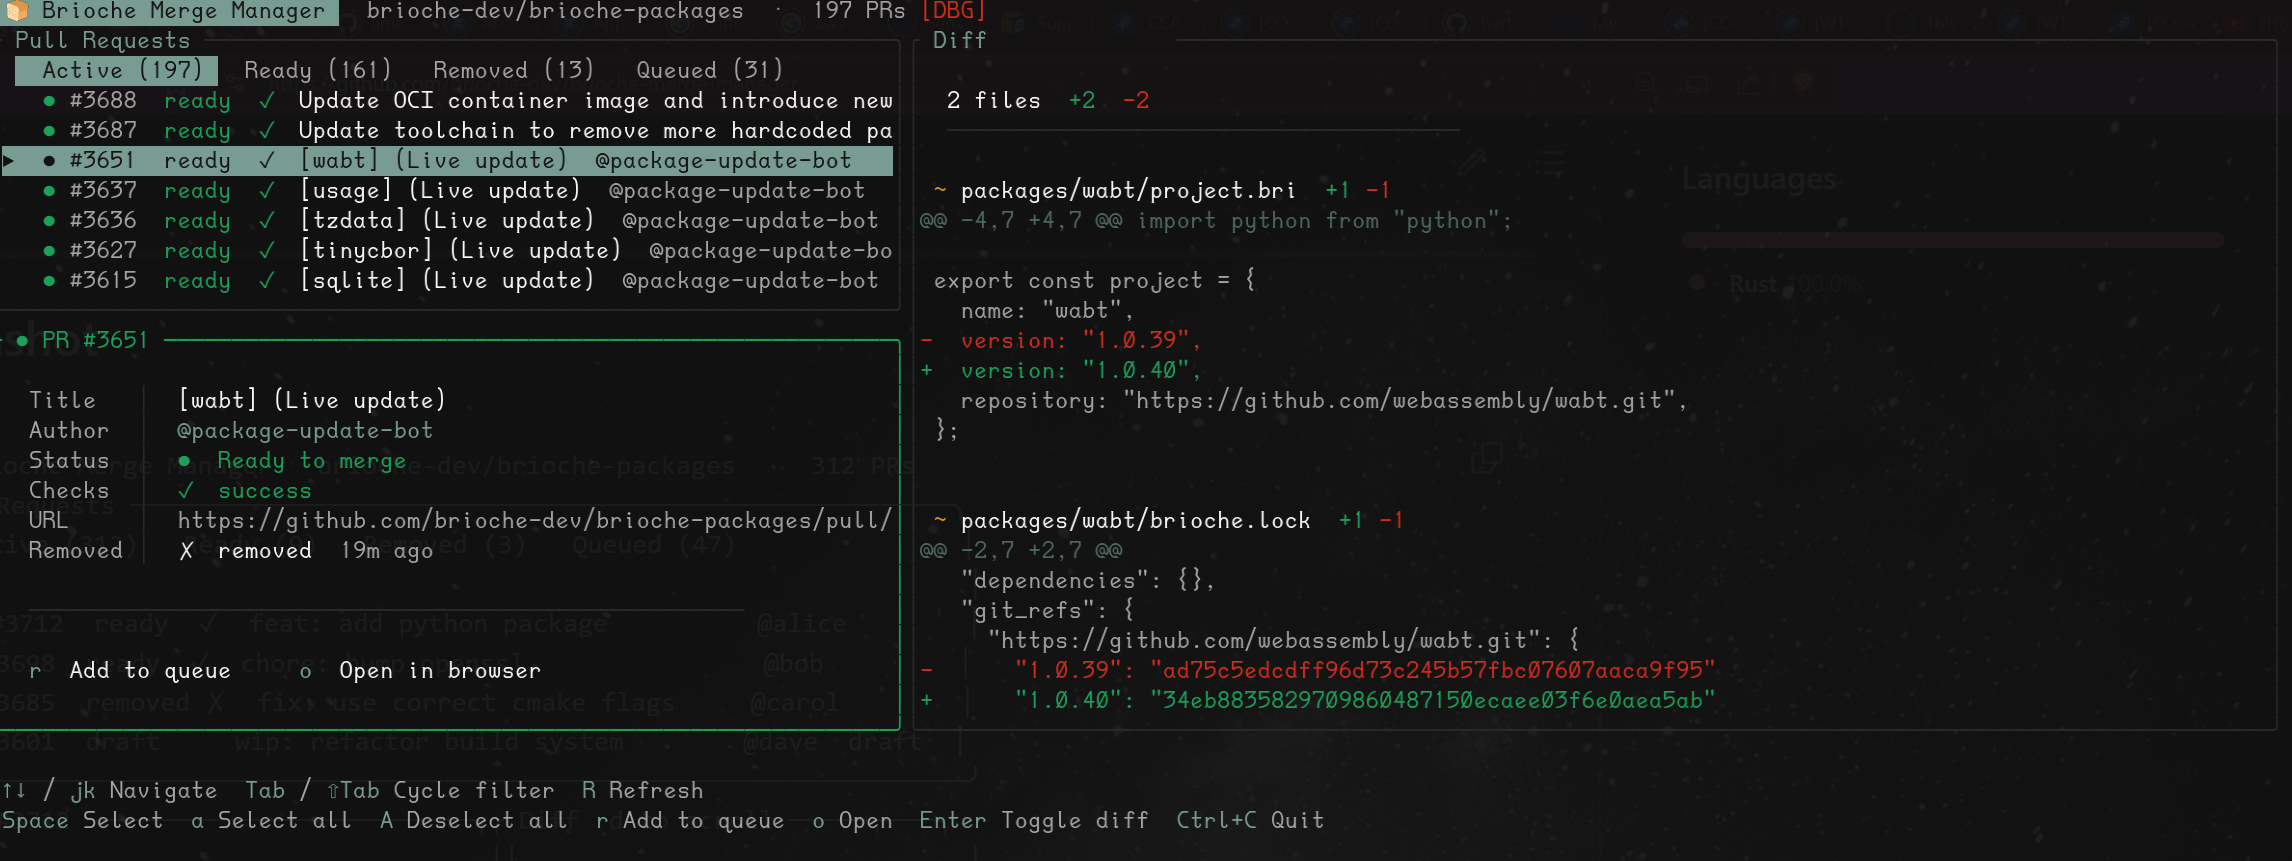
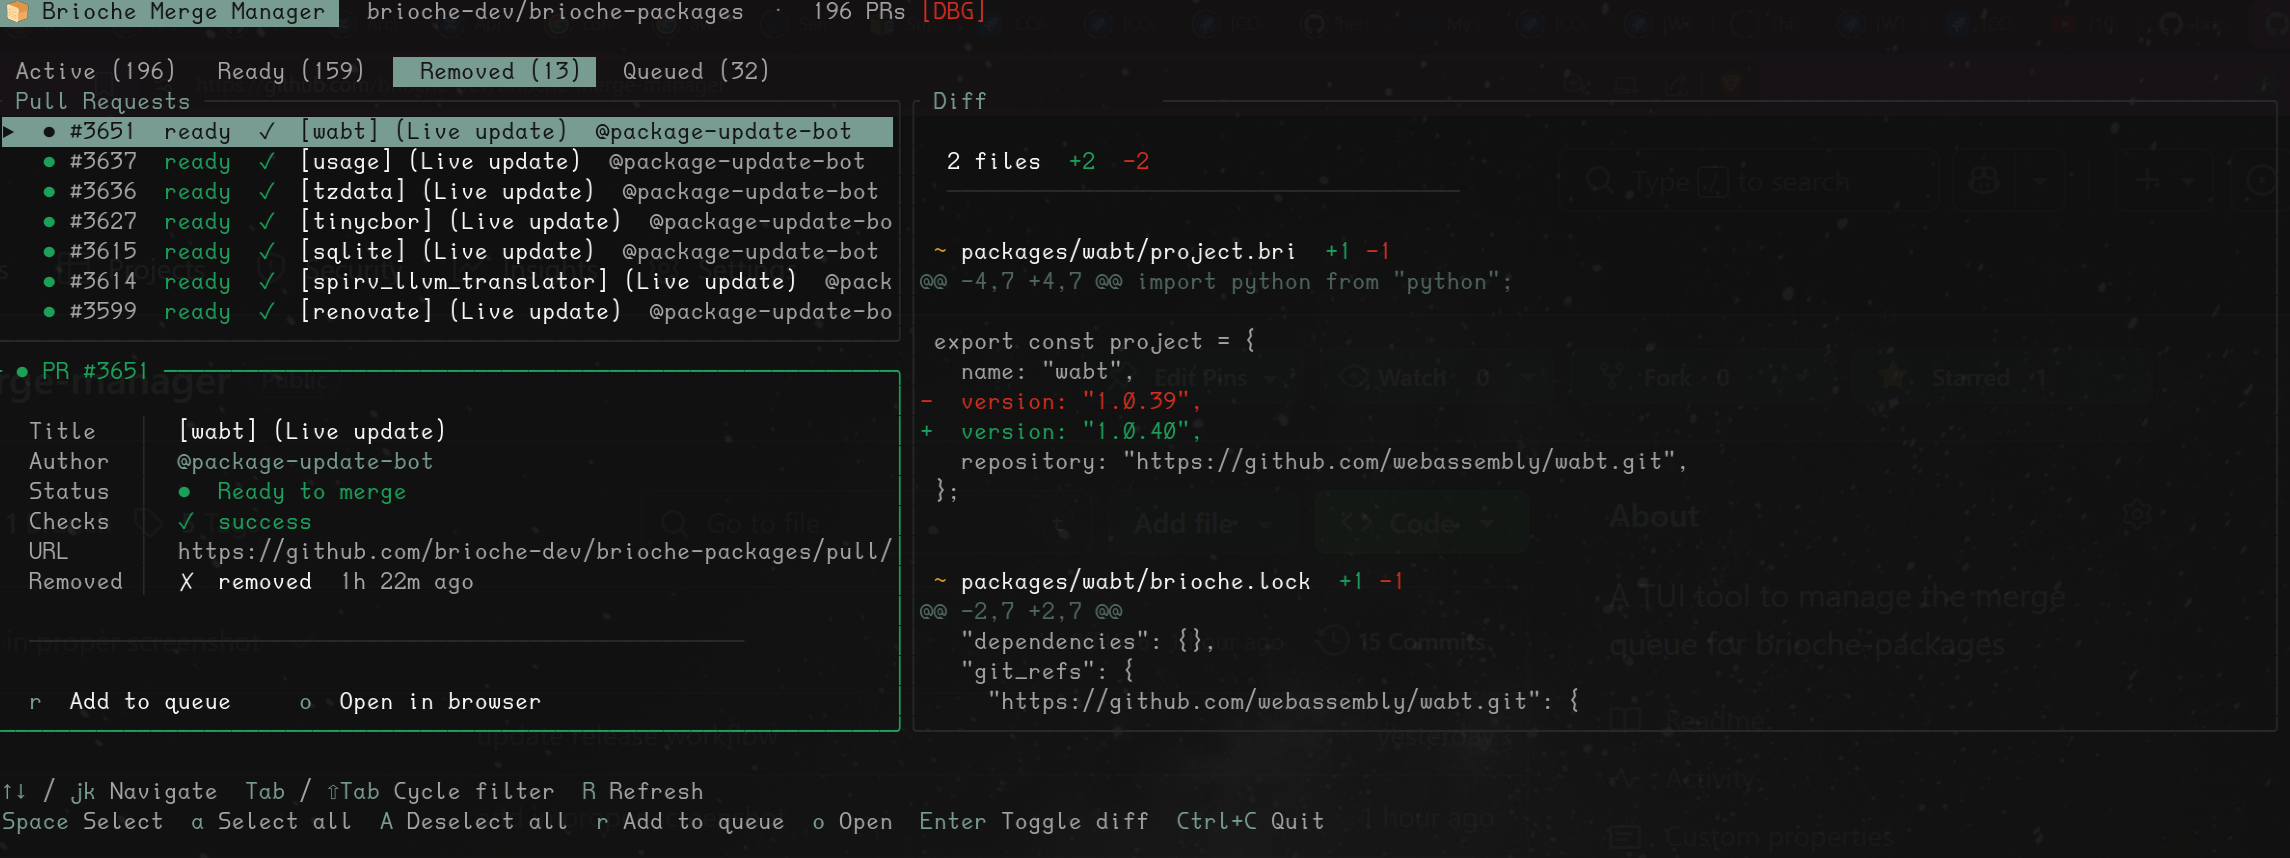
cleanup and add --diff

diff --git a/src/ui/pr_list.rs b/src/ui/pr_list.rs
@@ -1,5 +1,5 @@
 use ratatui::{
-    layout::{Constraint, Direction, Layout, Rect},
+    layout::Rect,
     style::{Color, Style, Stylize},
     text::{Line, Span},
     widgets::{Block, BorderType, Borders, Clear, Gauge, List, ListItem, Paragraph},
@@ -79,21 +79,16 @@ pub fn render_pr_list(f: &mut Frame, app: &mut App, area: Rect) {
     //   [rest]    scrollable PR list
     f.render_widget(block, area);
 
-    let inner = Layout::default()
-        .direction(Direction::Vertical)
-        .constraints([Constraint::Length(1), Constraint::Min(0)])
-        .split(Rect {
-            x: area.x + 1,
-            y: area.y + 1,
-            width: area.width.saturating_sub(2),
-            height: area.height.saturating_sub(2),
-        });
-
-    render_filter_tabs(f, app, inner[0]);
+    let list_rect = Rect {
+        x: area.x + 1,
+        y: area.y + 1,
+        width: area.width.saturating_sub(2),
+        height: area.height.saturating_sub(2),
+    };
 
     // Keep app in sync so PageUp/Down know how many rows are visible, and clicks can be hit-tested.
-    app.list_height = inner[1].height as usize;
-    app.pr_list_rect = inner[1];
+    app.list_height = list_rect.height as usize;
+    app.pr_list_rect = list_rect;
 
     let visible = app.visible_prs();
 
@@ -103,7 +98,7 @@ pub fn render_pr_list(f: &mut Frame, app: &mut App, area: Rect) {
             Span::raw("  "),
             format!("No {label} PRs").dim(),
         ]));
-        f.render_widget(msg, inner[1]);
+        f.render_widget(msg, list_rect);
         return;
     }
 
@@ -161,10 +156,10 @@ pub fn render_pr_list(f: &mut Frame, app: &mut App, area: Rect) {
         .highlight_style(Style::new().black().on_cyan().bold())
         .highlight_symbol("▶ ");
 
-    f.render_stateful_widget(list, inner[1], &mut app.list_state);
+    f.render_stateful_widget(list, list_rect, &mut app.list_state);
 }
 
-fn render_filter_tabs(f: &mut Frame, app: &mut App, area: Rect) {
+pub fn render_filter_tabs(f: &mut Frame, app: &mut App, area: Rect) {
     let mut spans = vec![Span::raw(" ")];
     let mut x = area.x + 1; // skip the leading space
 

diff --git a/src/ui/mod.rs b/src/ui/mod.rs
@@ -17,7 +17,7 @@ pub fn render(f: &mut Frame, app: &mut App) {
     let rows = Layout::default()
         .direction(Direction::Vertical)
         .constraints([
-            Constraint::Length(1), // header
+            Constraint::Length(2), // header + breathing room
             Constraint::Fill(1),   // main content
             Constraint::Length(3), // legend
         ])
@@ -26,12 +26,20 @@ pub fn render(f: &mut Frame, app: &mut App) {
     render_header(f, app, rows[0]);
     render_legend(f, app, rows[2]);
 
+    // Filter tabs always occupy a 1-line row above the panels so their
+    // position never shifts when the diff panel is toggled.
+    let main_rows = Layout::default()
+        .direction(Direction::Vertical)
+        .constraints([Constraint::Length(1), Constraint::Fill(1)])
+        .split(rows[1]);
+
+    pr_list::render_filter_tabs(f, app, main_rows[0]);
+
     if app.show_diff {
-        // Split the main content area horizontally: left = list+detail, right = diff.
         let cols = Layout::default()
             .direction(Direction::Horizontal)
             .constraints([Constraint::Fill(2), Constraint::Fill(3)])
-            .split(rows[1]);
+            .split(main_rows[1]);
 
         let left = Layout::default()
             .direction(Direction::Vertical)
@@ -48,7 +56,7 @@ pub fn render(f: &mut Frame, app: &mut App) {
         let left = Layout::default()
             .direction(Direction::Vertical)
             .constraints([Constraint::Fill(2), Constraint::Fill(3)])
-            .split(rows[1]);
+            .split(main_rows[1]);
 
         pr_list::render_pr_list(f, app, left[0]);
         pr_detail::render_pr_detail(f, app, left[1]);

diff --git a/src/app.rs b/src/app.rs
@@ -169,7 +169,7 @@ pub struct App {
 }
 
 impl App {
-    pub fn new(config: Config, github: Arc<GitHubClient>) -> Self {
+    pub fn new(config: Config, github: Arc<GitHubClient>, open_diff: bool) -> Self {
         let mut list_state = ListState::default();
         list_state.select(Some(0));
 
@@ -185,7 +185,7 @@ impl App {
             active_filter: Filter::Active,
             status_msg: None,
             should_quit: false,
-            show_diff: false,
+            show_diff: open_diff,
             diff_focused: false,
             diff_cache: std::collections::HashMap::new(),
             diff_scroll: 0,
@@ -733,6 +733,11 @@ impl App {
                 self.load_state = LoadState::Idle;
                 self.load_progress = None;
                 self.clamp_selection();
+                if self.show_diff {
+                    if let Some(pr) = self.selected_pr() {
+                        self.fetch_diff_if_needed(pr.number, action_tx);
+                    }
+                }
             }
 
             Action::LoadError(msg) => {

diff --git a/src/main.rs b/src/main.rs
@@ -23,8 +23,10 @@ async fn main() -> Result<()> {
     let config = Config::from_env()?;
     debug!(owner = %config.owner, repo = %config.repo, "starting");
 
+    let open_diff = std::env::args().any(|a| a == "--diff");
+
     let github = Arc::new(GitHubClient::new(&config)?);
-    let app = App::new(config, github);
+    let app = App::new(config, github, open_diff);
 
     tui::run(app).await?;
 
